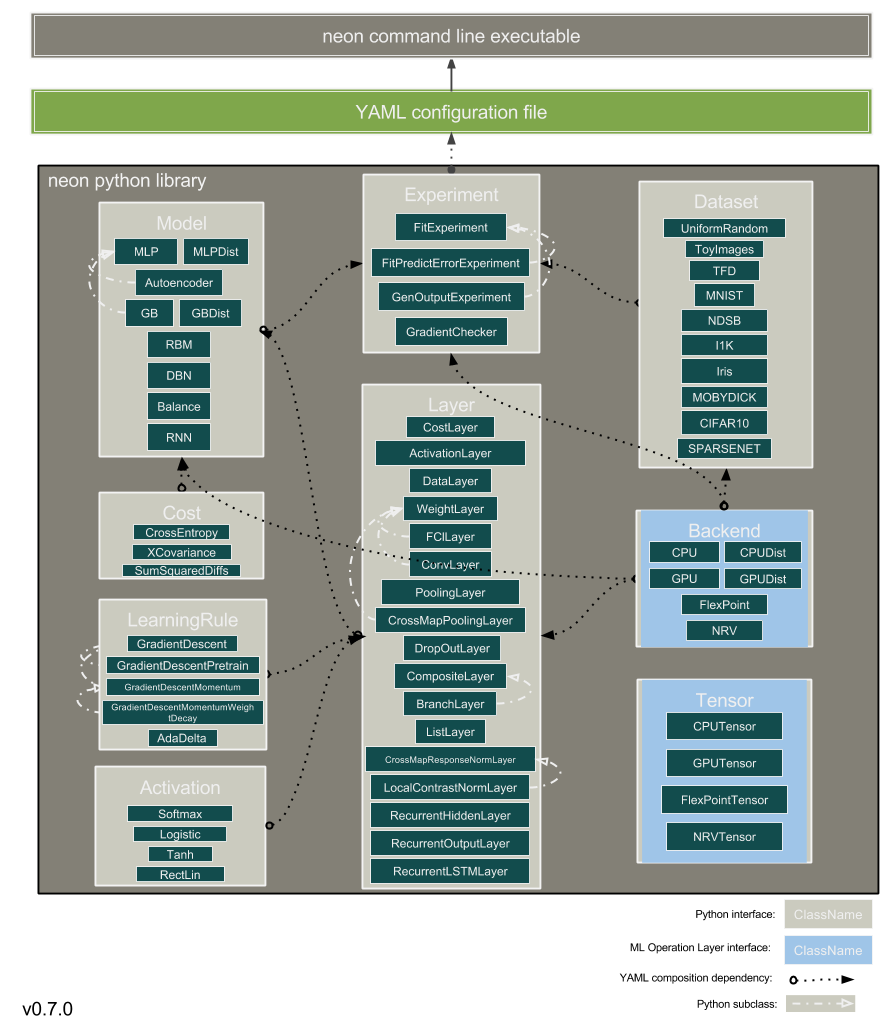
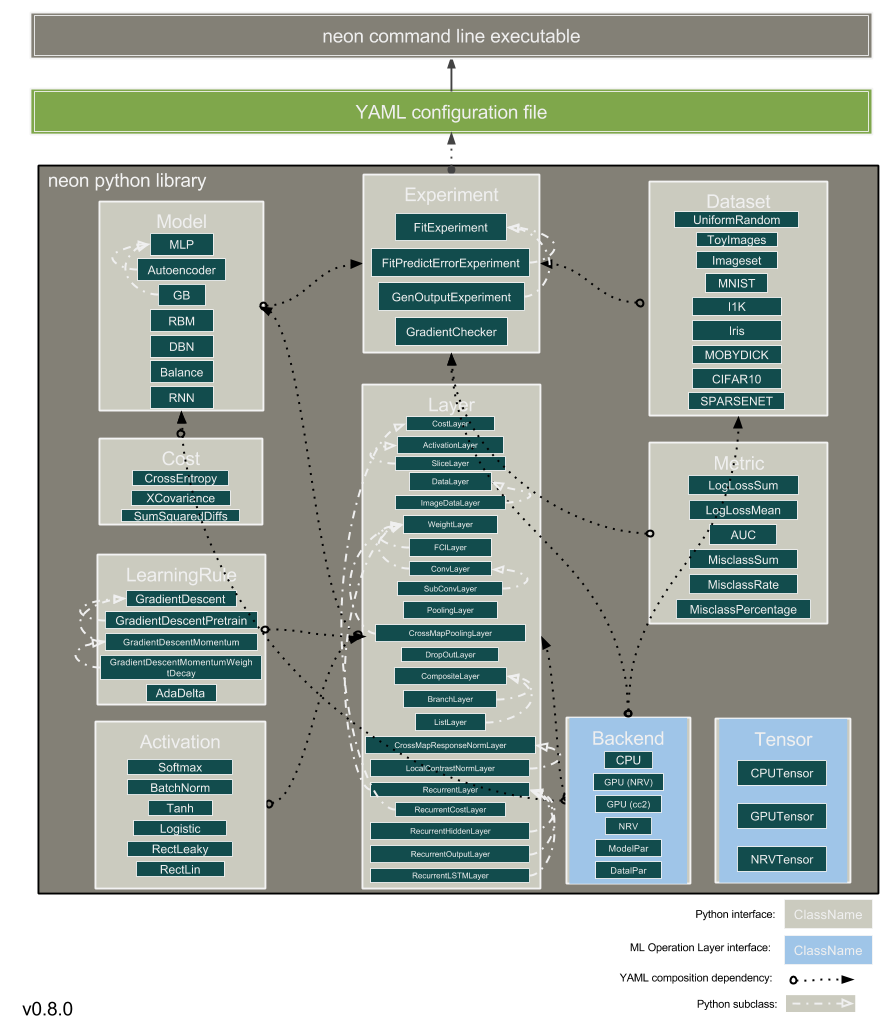
Updated architecture diagram, minor doc changes.

Changed region(s): [[0.3624, 0.1546, 0.9664, 0.8657], [0.0906, 0.1855, 0.302, 0.8657]]

diff --git a/README.md b/README.md
@@ -38,8 +38,6 @@ These provide additional functionality, and assist developers
 * [pycuda](http://mathema.tician.de/software/pycuda/) required for our
   nervanagpu backend
 * [Cython](http://cython.org/) for FlexPoint CPU backend compilation
-* [scikit-learn](http://scikit-learn.org) Currently used for AUC performance
-  calculations
 * [matplotlib](http://matplotlib.org) for RNN feature visualization
 * [openmpi](http://www.open-mpi.org), [mpi4py](http://mpi4py.scipy.org) for
   distributed tensors.
